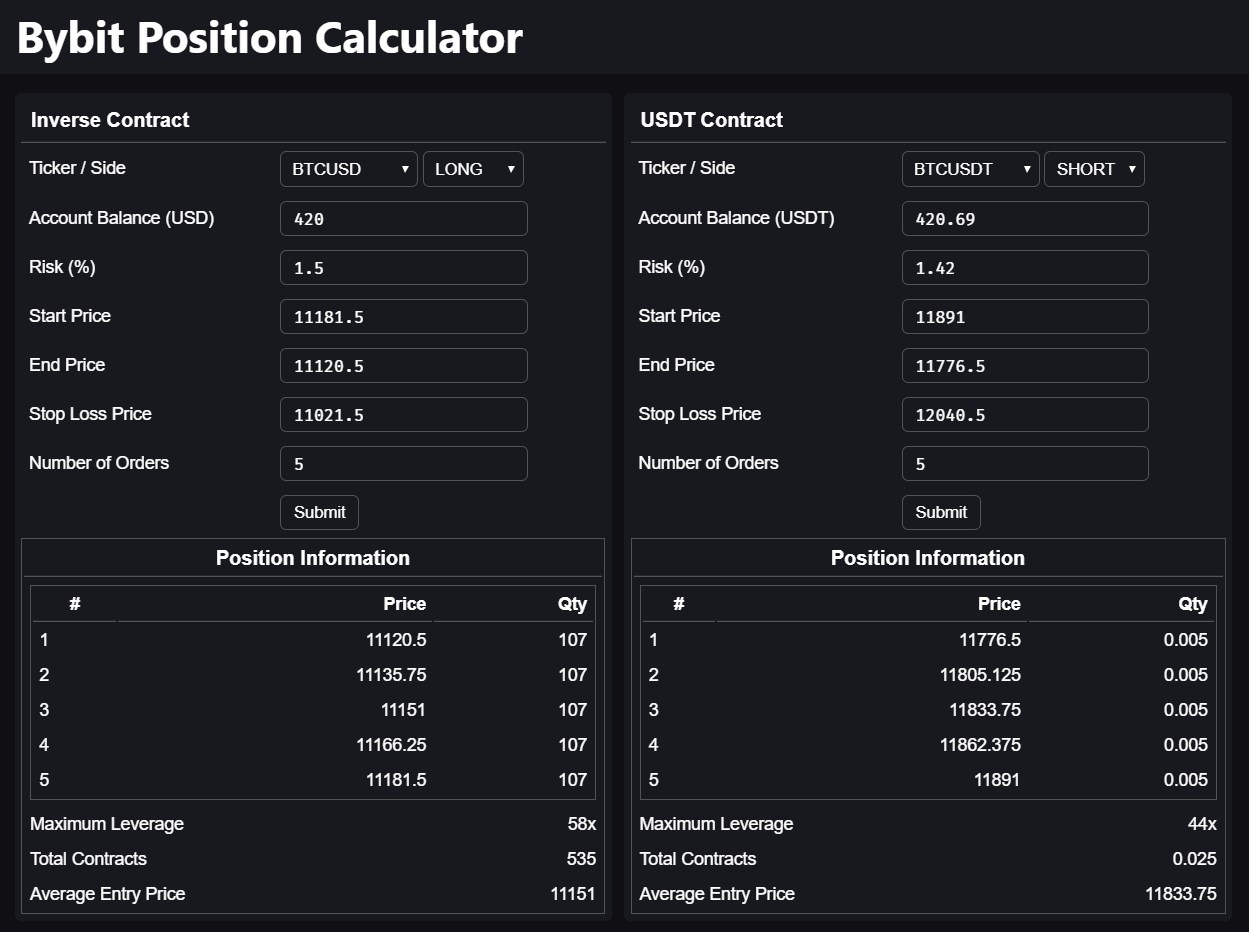
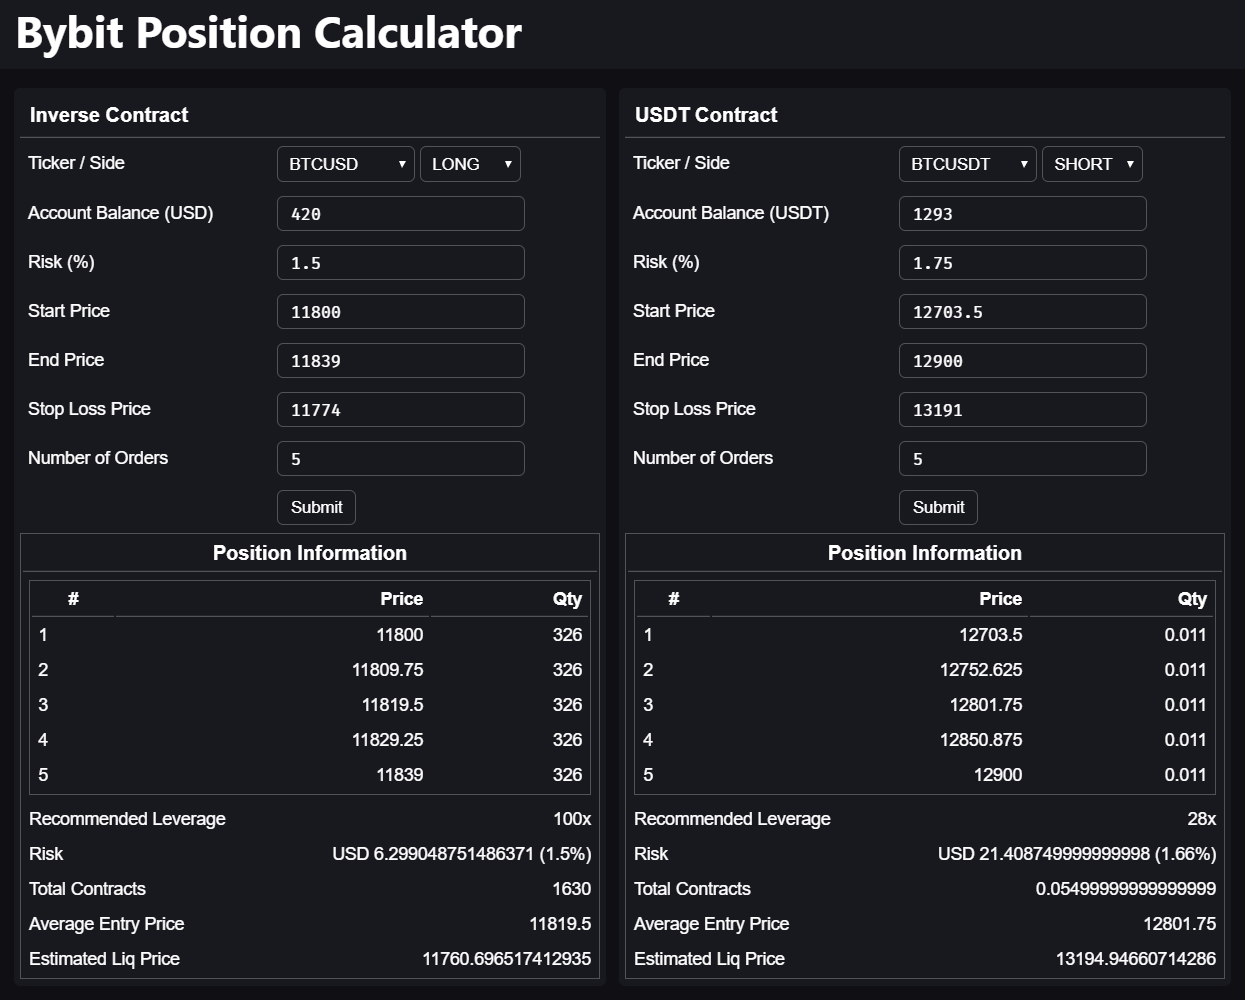
recalculated liqprice and risk

Changed region(s): [[0.0, 0.0933, 0.9767, 0.9957], [0.0, 0.0, 0.4273, 0.0622]]

diff --git a/src/renderer/components/Inverse/Inverse.js b/src/renderer/components/Inverse/Inverse.js
@@ -24,21 +24,17 @@ export default {
     calculatePosition() {
       const orderRange = (this.start < this.end) ? [this.start, this.end] : [this.end, this.start];
       const interval = (orderRange[1] - orderRange[0]) / (this.orders - 1);
-      var orderPrices = [];
-      for (var i of this.$python.range(this.orders)) { orderPrices.push(orderRange[0] + (interval * i)); }
+      const orderPrices = this.$python.range(this.orders).map((x) => { return orderRange[0] + (interval * x) })
       const averagePrice = this.$python.sum(orderPrices) / orderPrices.length;
       const riskAmount = (this.balance * this.risk) / 100;
       const riskAmountBase = (1 / averagePrice) * riskAmount;
 
       // Calculate the maximum leverage
-      let leverage = 1;
-      let liqPrice;
+      var leverage = 1;
+      var liqPrice;
       while (true) {
         liqPrice = this.$bybitInverse.liqPrice(this.side, this.symbol, leverage, averagePrice);
-        if (this.side === 'LONG' && liqPrice > this.stop) {
-          leverage -= 2;
-          break;
-        } else if (this.side === 'SHORT' && liqPrice < this.stop) {
+        if (this.side === 'LONG' && liqPrice > this.stop || this.side === 'SHORT' && liqPrice < this.stop) {
           leverage -= 2;
           break;
         } else {
@@ -50,13 +46,10 @@ export default {
         }
       }
 
-      /* Calculate number of contracts
-      Number of contracts will keep adding from one until unrealized P/L
-      between average entry and stop price match your account risk
-      percentage. */
-      let contracts = this.orders;
+      // Calculate number of contracts
+      var contracts = this.orders;
       const step = this.orders;
-      let unrealizedPL;
+      var unrealizedPL;
       while (true) {
         unrealizedPL = Math.abs(this.$bybitInverse.unrealizedPL(this.side, contracts, averagePrice, this.stop));
         if (unrealizedPL > riskAmountBase) {
@@ -68,18 +61,20 @@ export default {
       }
 
       // Generate Orders
-      const orders = [];
-      for (const price of orderPrices) {
-        orders.push({ price, qty: contracts / this.orders });
-      }
+      const orders = orderPrices.map((price) => { return { price, qty: contracts / this.orders }; })
+
+      // Recalculate liqPrice and risk
+      liqPrice = this.$bybitInverse.liqPrice(this.side, this.symbol, leverage, averagePrice);
+      unrealizedPL = Math.abs(this.$bybitInverse.unrealizedPL(this.side, contracts, averagePrice, this.stop) * averagePrice);
 
       this.out = {
+        averagePrice,
         leverage,
         liqPrice,
         orders,
         risk: unrealizedPL,
-        totalContracts: contracts,
-        averagePrice,
+        riskPercent: ((100 * unrealizedPL) / this.balance),
+        totalContracts: contracts
       };
 
       console.log(this.out);

diff --git a/src/renderer/components/Usdt/Usdt.js b/src/renderer/components/Usdt/Usdt.js
@@ -24,18 +24,12 @@ export default {
     calculatePosition() {
       const orderRange = (this.start < this.end) ? [this.start, this.end] : [this.end, this.start];
       const interval = (orderRange[1] - orderRange[0]) / (this.orders - 1);
-      var orderPrices = [];
-      for (var i in this.$python.range(this.orders)) {
-        orderPrices.push(orderRange[0] + (interval * i));
-      }
+      const orderPrices = this.$python.range(this.orders).map((x) => { return orderRange[0] + (interval * x) })
       const averagePrice = this.$python.sum(orderPrices) / orderPrices.length;
 
       const riskAmount = (this.balance * this.risk) / 100;
 
-      /* Calculate number of contracts
-      Number of contracts will keep adding from one until unrealized P/L
-      between average entry and stop price match your account risk
-      percentage. */
+      // Calculate number of contracts
       let contracts = this.orders * 0.001;
       const step = this.orders * 0.001;
       let unrealizedPL;
@@ -55,7 +49,7 @@ export default {
       while (true) {
         liqPrice = this.$bybitUSDT.liqPrice(this.side, averagePrice, leverage);
         if (this.side === 'LONG' && liqPrice > this.stop || this.side === 'SHORT' && liqPrice < this.stop) {
-          leverage -= 1;
+          leverage -= 2;
           break;
         } else {
           leverage += 1;
@@ -67,18 +61,20 @@ export default {
       }
 
       // Generate Orders
-      let orders = [];
-      for (const price of orderPrices) {
-        orders.push({ price, qty: contracts / this.orders });
-      }
+      const orders = orderPrices.map((price) => { return { price, qty: contracts / this.orders }; })
+
+      // Recalculate liqPrice and risk
+      liqPrice = this.$bybitUSDT.liqPrice(this.side, averagePrice, leverage);
+      unrealizedPL = Math.abs(this.$bybitUSDT.unrealizedPL(this.side, contracts, averagePrice, this.stop));
 
       this.out = {
+        averagePrice: averagePrice,
         leverage: leverage,
         liqPrice: liqPrice,
         orders: orders,
         risk: unrealizedPL,
+        riskPercent: ((100 * unrealizedPL) / this.balance),
         totalContracts: contracts,
-        averagePrice: averagePrice,
       };
 
       console.log(this.out);

diff --git a/src/renderer/components/Inverse/Inverse.vue b/src/renderer/components/Inverse/Inverse.vue
@@ -66,7 +66,7 @@
               <th class="number">Price</th>
               <th class="number">Qty</th>
             </tr>
-            <tr v-for="(order, num) in out['orders']">
+            <tr v-for="(order, num) in out.orders">
               <td>{{ num + 1 }}</td>
               <td class="number">{{ order.price }}</td>
               <td class="number">{{ order.qty }}</td>
@@ -75,20 +75,24 @@
         </td>
       </tr>
       <tr>
-        <td>Maximum Leverage</td>
-        <td class="number">{{ out["leverage"] }}x</td>
+        <td>Recommended Leverage</td>
+        <td class="number">{{ out.leverage }}x</td>
+      </tr>
+      <tr>
+        <td>Risk</td>
+        <td class="number">USD {{ out.risk }} ({{ Math.round(out.riskPercent * 100) / 100 }}%)</td>
       </tr>
       <tr>
         <td>Total Contracts</td>
-        <td class="number">{{ out["totalContracts"] }}</td>
+        <td class="number">{{ out.totalContracts }}</td>
       </tr>
       <tr>
         <td>Average Entry Price</td>
-        <td class="number">{{ out["averagePrice"] }}</td>
+        <td class="number">{{ out.averagePrice }}</td>
       </tr>
       <tr>
         <td>Estimated Liq Price</td>
-        <td class="number">{{ out["liqPrice"] }}</td>
+        <td class="number">{{ out.liqPrice }}</td>
       </tr>
     </table>
   </div>

diff --git a/src/renderer/components/Usdt/Usdt.vue b/src/renderer/components/Usdt/Usdt.vue
@@ -63,7 +63,7 @@
               <th class="number">Price</th>
               <th class="number">Qty</th>
             </tr>
-            <tr v-for="(order, num) in out['orders']">
+            <tr v-for="(order, num) in out.orders">
               <td>{{ num + 1 }}</td>
               <td class="number">{{ order.price }}</td>
               <td class="number">{{ order.qty }}</td>
@@ -72,20 +72,24 @@
         </td>
       </tr>
       <tr>
-        <td>Maximum Leverage</td>
-        <td class="number">{{ out["leverage"] }}x</td>
+        <td>Recommended Leverage</td>
+        <td class="number">{{ out.leverage }}x</td>
+      </tr>
+      <tr>
+        <td>Risk</td>
+        <td class="number">USD {{ out.risk }} ({{ Math.round(out.riskPercent * 100) / 100 }}%)</td>
       </tr>
       <tr>
         <td>Total Contracts</td>
-        <td class="number">{{ out["totalContracts"] }}</td>
+        <td class="number">{{ out.totalContracts }}</td>
       </tr>
       <tr>
         <td>Average Entry Price</td>
-        <td class="number">{{ out["averagePrice"] }}</td>
+        <td class="number">{{ out.averagePrice }}</td>
       </tr>
       <tr>
         <td>Estimated Liq Price</td>
-        <td class="number">{{ out["liqPrice"] }}</td>
+        <td class="number">{{ out.liqPrice }}</td>
       </tr>
     </table>
   </div>

diff --git a/src/renderer/plugins/bybit.js b/src/renderer/plugins/bybit.js
@@ -14,9 +14,11 @@ export default {
           // LONG (entryPrice * leverage) / (leverage + 1 - (maintenanceMarginRate * leverage))
           // SHORT (entryPrice * leverage) / (leverage - 1 + (maintenanceMarginRate * leverage))
           const mmr = this.maintenanceMarginRate(ticker);
-          const base = (entryPrice * leverage)
-          if (side == 'LONG') { return base / (leverage + 1 - (mmr * leverage)); }
-          else { return base / (leverage - 1 + (mmr * leverage)); }
+          if (side == 'LONG') {
+            return (entryPrice * leverage) / (leverage + 1 - (mmr * leverage));
+          } else {
+            return (entryPrice * leverage) / (leverage - 1 + (mmr * leverage));
+          }
         }
       },
     });
